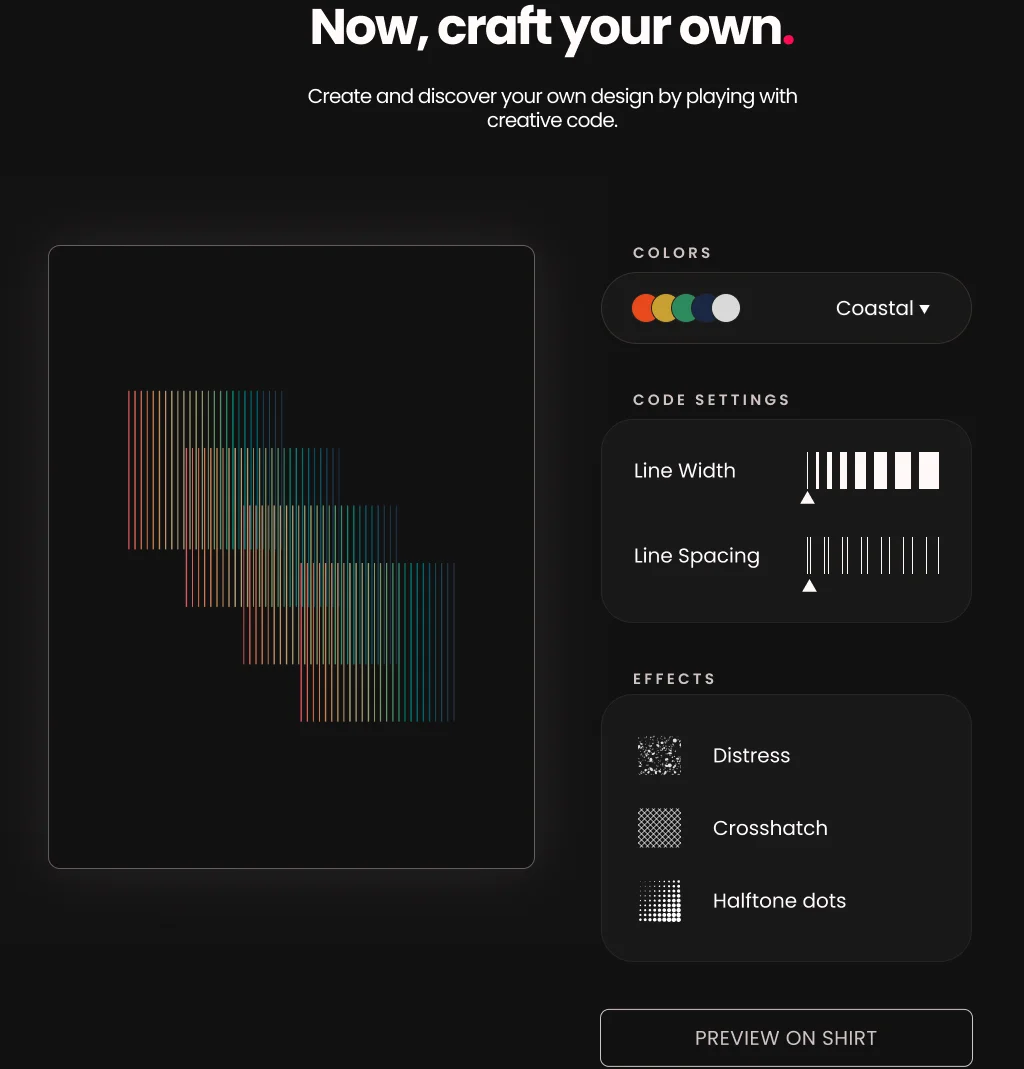
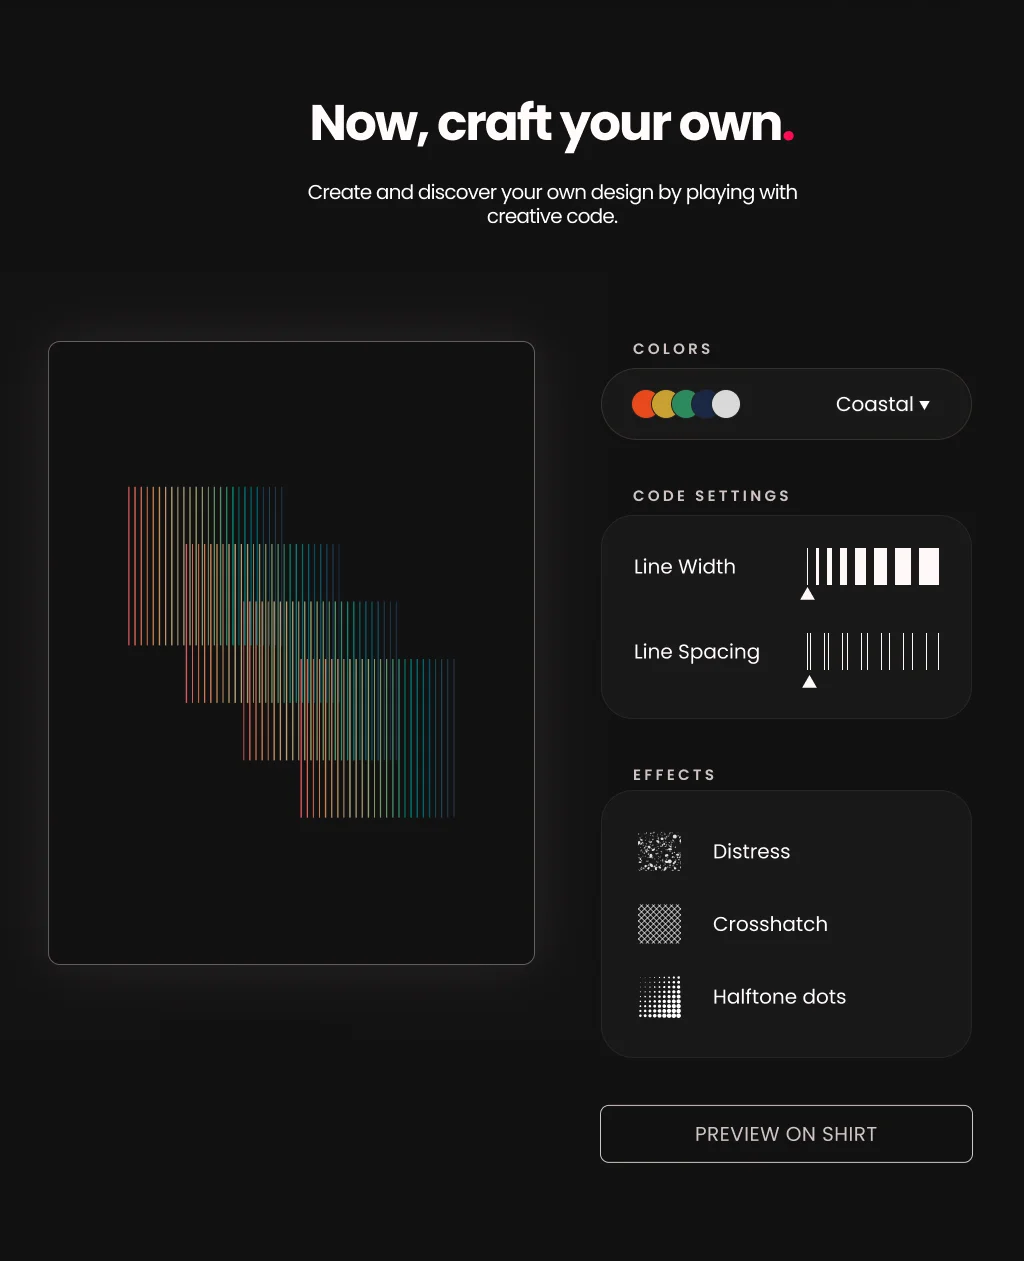
Pad the tablet Craft your own export top and bottom
The tablet frame's section node has no padding, so the old crop put the
heading and the Preview on shirt button against the image edges. Re-crop
the Tablet frame with 96px above and below, the same margin as the
desktop export, and rebalance the figure widths so the tablet and mobile
images still match in height.

diff --git a/next-frontend/src/app/work-ive-done/brightfield-redesign/page.tsx b/next-frontend/src/app/work-ive-done/brightfield-redesign/page.tsx
@@ -230,17 +230,17 @@ export default function BrightfieldRedesignPage() {
                                 src="/images/work-ive-done/brightfield-redesign/tablet-craft-your-own.webp"
                                 alt="Tablet craft your own section: the design canvas on the left, with Colors, Code settings and Effects panels and a Preview on shirt button on the right."
                                 width={1024}
-                                height={1069}
-                                sizes="(min-width: 1024px) 690px, 66vw"
-                                className="w-[67.4%] min-w-0 h-auto rounded-lg"
+                                height={1261}
+                                sizes="(min-width: 1024px) 650px, 62vw"
+                                className="w-[63.6%] min-w-0 h-auto rounded-lg"
                             />
                             <Image
                                 src="/images/work-ive-done/brightfield-redesign/mobile-craft-your-own.webp"
                                 alt="Mobile craft your own section: the design canvas filling the width, with a bar of Colors, Code and Finish tabs beneath it."
                                 width={402}
                                 height={866}
-                                sizes="(min-width: 1024px) 340px, 32vw"
-                                className="w-[32.6%] min-w-0 h-auto rounded-lg"
+                                sizes="(min-width: 1024px) 370px, 36vw"
+                                className="w-[36.4%] min-w-0 h-auto rounded-lg"
                             />
                         </div>
                     </Figure>
